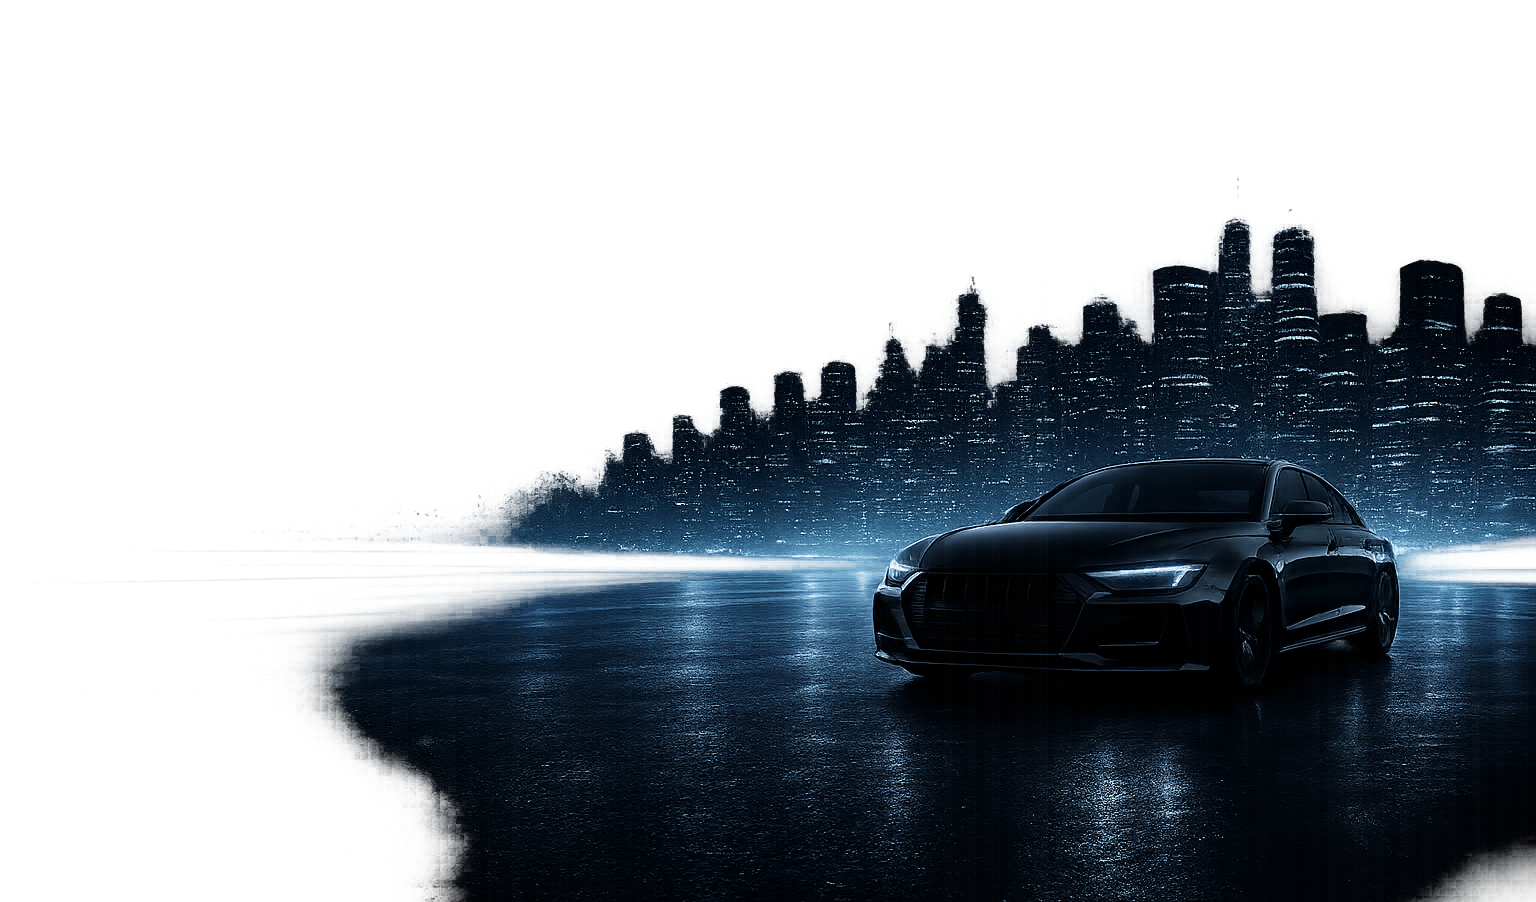
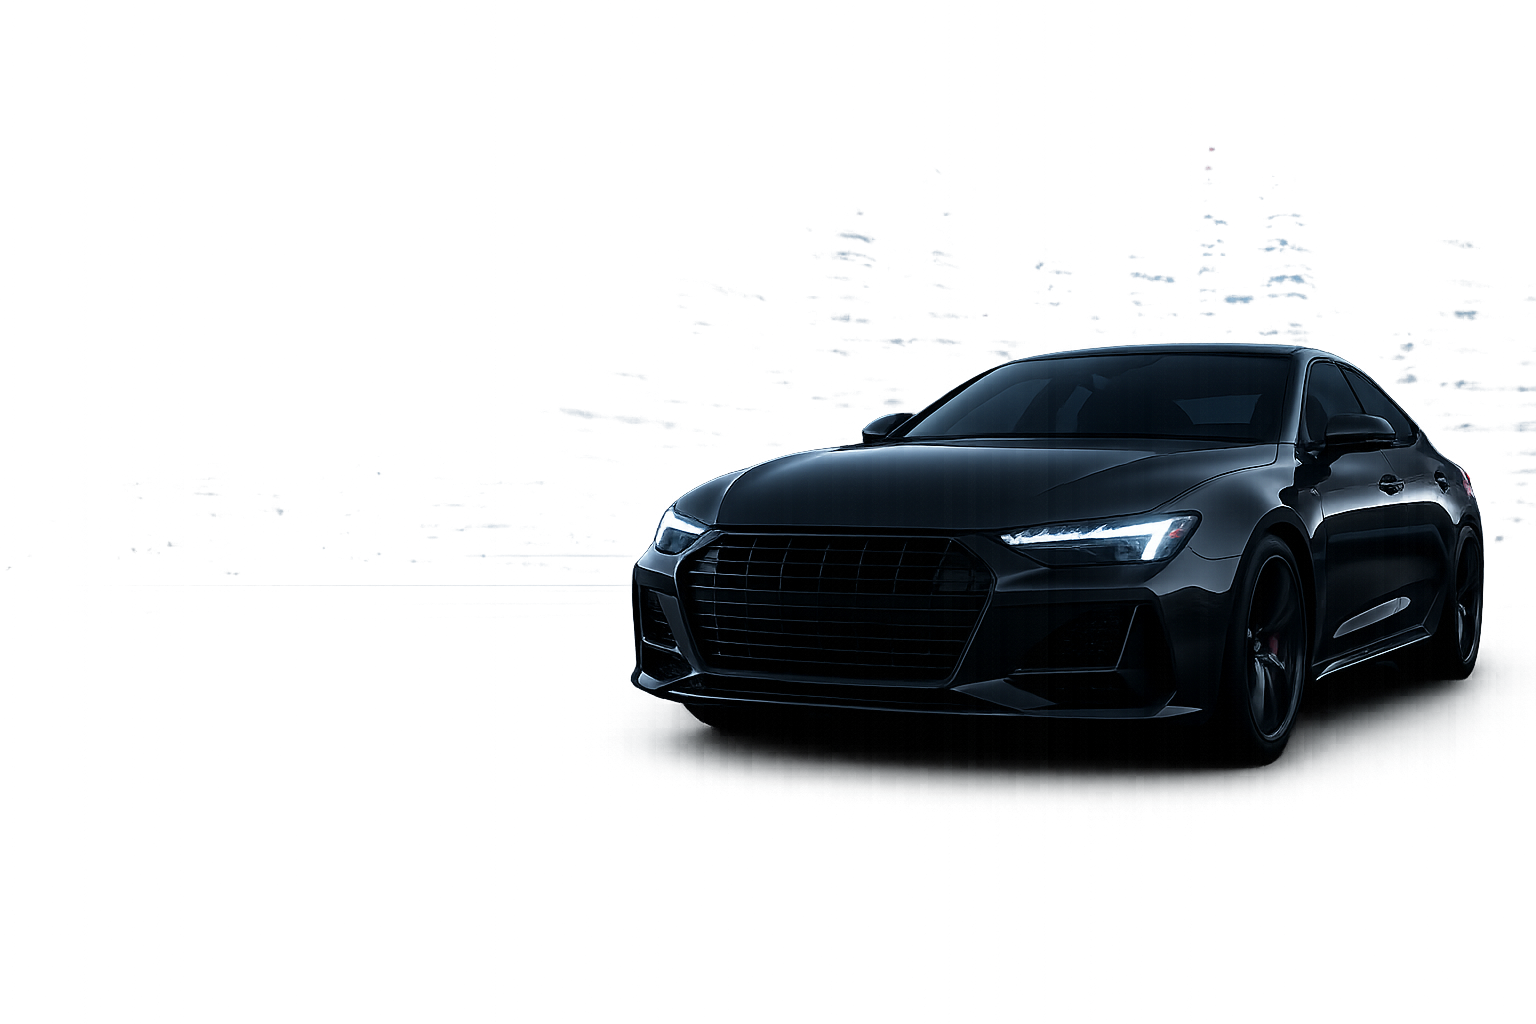
acatualizacion

diff --git a/index.html b/index.html
@@ -87,7 +87,8 @@
     <div class="hero-content">
 
         <h1>
-            Gestiona el <span>mantenimiento</span> de tu vehículo de forma inteligente.
+            Descubre tu proximo <br>
+            <span>vehículo</span>.
         </h1>
 
         <p>
@@ -112,23 +113,35 @@
 <section class="stats">
 
     <div class="stat-card">
-        <h3>+500</h3>
-        <p>Vehículos registrados</p>
+        <img src="assets/carro.png" alt="Icono coche" class="stat-icon">
+        <div class="stat-info">
+            <h3>+500</h3>
+            <p>Vehículos registrados</p>
+        </div>
     </div>
 
     <div class="stat-card">
-        <h3>+2000</h3>
-        <p>Mantenimientos realizados</p>
+        <img src="assets/icon-wrench.png" alt="Icono llave" class="stat-icon">
+        <div class="stat-info">
+            <h3>+2000</h3>
+            <p>Mantenimientos realizados</p>
+        </div>
     </div>
 
     <div class="stat-card">
-        <h3>+50</h3>
-        <p>Talleres asociados</p>
+        <div class="stat-info">
+            <h3>+50</h3>
+            <p>Talleres asociados</p>
+        </div>
+        <img src="assets/icon-shop.png" alt="Icono taller" class="stat-icon">
     </div>
 
     <div class="stat-card">
-        <h3>95%</h3>
-        <p>Satisfacción de usuarios</p>
+        <img src="assets/icon-smile.png" alt="Icono usuario" class="stat-icon">
+        <div class="stat-info">
+            <h3>95%</h3>
+            <p>Satisfacción de usuarios</p>
+        </div>
     </div>
 
 </section>

diff --git a/css/styles.css b/css/styles.css
@@ -172,19 +172,18 @@ body::before {
 }
 
 /* ==========================================
-   imagen grande del hero (tipo fondo)
+   imagen grande del hero 
 ========================================== */
 .hero-image {
     position: absolute;
     right: 32%;
-    top: -240px;
+    top: -140px;
 
-    width: 70%;
+    width: 59%;
 
     z-index: 1;
     pointer-events: none;
 }
-
 .hero-image img {
     width: 150%;
     max-width: none;
@@ -207,16 +206,35 @@ body::before {
 }
 
 /* tarjetas de stats */
+/* Modificación en las tarjetas de stats */
 .stat-card {
     background: #0b1324;
     border: 1px solid rgba(255,255,255,.05);
     padding: 25px;
     border-radius: 16px;
+    
+    /* Nuevas propiedades para alinear el icono al lado */
+    display: flex;
+    align-items: center;
+    gap: 15px; /* Espacio entre el icono y el texto */
+}
+
+/* Control del tamaño de tus iconos */
+.stat-icon {
+    width: 35px;  /* Ajusta el tamaño que quieras aquí */
+    height: 35px; /* Ajusta el tamaño que quieras aquí */
+    object-fit: contain;
+}
+
+/* Contenedor del texto para mantener el orden vertical */
+.stat-info {
+    display: flex;
+    flex-direction: column;
 }
 
 .stat-card h3 {
     color: #3b82f6;
-    margin-bottom: 10px;
+    margin-bottom: 2px; /* Reducido un poco para que cuadre mejor con el icono */
 }
 
 /* ==========================================
